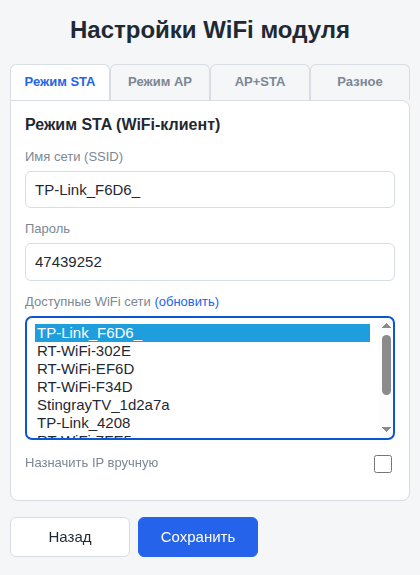
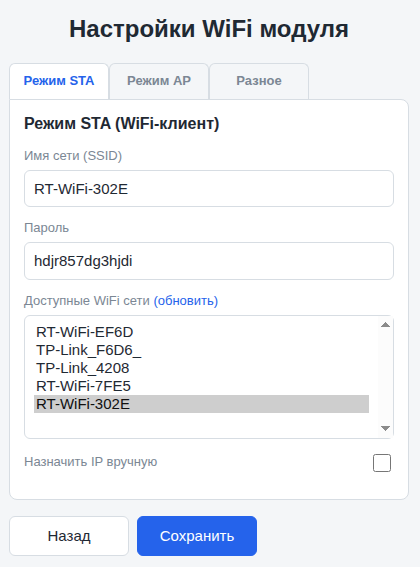
fix docs

diff --git a/docs/api.md b/docs/api.md
@@ -160,7 +160,7 @@ void setStaDns2(IPAddress &sta_dns2)
 здесь:
 - `ip`, `sta_ip` - IP-адрес модуля
 - `gateway`, `sta_gateway` - адрес шлюза
-- `mask`, `sta_mask` - маска сети
+- `mask`, `sta_mask` - маска подсети
 - `dns1`, `sta_dns1` - адрес DNS1
 - `dns2`, `sta_dns2` - адрес DNS2
 
@@ -212,7 +212,7 @@ String getApPass();
 // с сохраненными параметрами
 void setApConfig();
 
-// с заданным IP; адрес шлюза будет установлен такой же, маска сети 255.255.255.0
+// с заданным IP; адрес шлюза будет установлен такой же, маска подсети 255.255.255.0
 void setApConfig(IPAddress &ip);
 
 // с заданными параметрами
@@ -225,7 +225,7 @@ void setApMask(IPAddress &ap_mask);
 здесь:
 - `ip`, `ap_ip` - IP-адрес точки доступа
 - `gateway`, `ap_gateway` - адрес шлюза
-- `mask`, `ap_mask` - маска сети точки доступа
+- `mask`, `ap_mask` - маска подсети точки доступа
 
 <hr>
 
@@ -247,7 +247,7 @@ void setUseComboMode(bool mode_on);
 здесь:
 - `mode_on` true - включить, false- отключить
 
-***Примечание:** при ключении этой опции в Web-интерфейсе появляется дополнительная вкладка, в которой можно управлять режимом; собственно, это ее единственная задача - добавить вкладку в Web-интерфейс*
+***Примечание:** при ключении этой опции в Web-интерфейсе появляется дополнительная вкладка, в которой можно управлять режимом*
 
 <hr>
 
@@ -416,7 +416,7 @@ void checkStaConnection();
 
 ***Примечание:** метод периодически вызывается методом `tick()` автоматически переводит модуль в режим точки доступа при потере соединения и снова подключается к WiFi-сети при ее появлении*
 
-***Важно!!!** если методом `setCheckTimer()` установлен нулевой интервал проверки, то проверка соединения выполняться не будет, и, как следствие, модуль не будет переводиться в режим точки доступа при потере WiFi-соединения*
+***Важно!!!** если методом `setCheckTimer()` установлен нулевой интервал проверки, то проверка соединения выполняться не будет, и, как следствие, модуль не будет переводиться в режим точки доступа при потере WiFi-соединения; еще одно последствие нулевого интервала - если при старте модуля нужная сеть не была найдена, и модуль переключился в режим точки доступа, то он будет оставаться в этом режиме даже после появления нужной сети*
 
 <hr>
 
@@ -454,7 +454,7 @@ bool isAuthenticated();
 
 **Описание:**
 
-*Все страницы, которые регистрирует сама библиотека, защищены автоматически. Страницы, которые вы регистрируете сами через server.on(...), этой проверкой не оборачиваются, поэтому их нужно защищать явно, вызвав этот метод в самом начале обработчика.*
+*Все страницы, которые регистрирует библиотека, защищены автоматически. Страницы, которые вы регистрируете сами через server.on(...), этой проверкой не оборачиваются, поэтому их нужно защищать явно, вызвав этот метод в самом начале обработчика.*
 
 *Метод выполняет проверку и в случае неудачи САМ отправляет браузеру ответ 401 с запросом базовой авторизации, поэтому при отрицательном результате в обработчике остаётся только прервать выполнение (return).*
 ```
@@ -464,7 +464,7 @@ bool isAuthenticated();
 Пример использования
 ```
 HTTP.on("/other", HTTP_GET, []() {
-   if (!myWiFi.isAuthenticated()) return;   // 401 отправит библиотека
+   if (!wifi_config.isAuthenticated()) return;   // 401 отправит библиотека
    HTTP.send(200, "text/html", "<p align='center' style='font-size: large;'>Test page</p>");
  });
 ```
@@ -494,6 +494,8 @@ void setEepromStartIndex(uint16_t _eeprom_start_index);
 ```
 здесь:
 - `_eeprom_start_index` - индекс в `EEPROM`, с которого будет сохраняться конфигурация модуля
+
+***Примечание:** по умолчанию модуль пишет данные начиная с нулевого индекса; изменение стартового индекса может понадобиться, если в начало EEPROM пишет данные какой-либо сторонний код*
 
 ***Важно!!!** помните, что для сохранения данных конфигурации модуля необходимо 1026 байт, задавая стартовый индекс, следите, чтобы все данные поместились в EEPROM после заданного индекса*
 

diff --git a/readme.md b/readme.md
@@ -93,6 +93,7 @@ shWiFiConfig wifi_config(adm_name, adm_pass);
 
 ***ВАЖНО!!!** конструктор принимает аргументы по ссылке (`String &`), поэтому передавать нужно именованные переменные типа `String`, а не строковые литералы. Вариант `shWiFiConfig wifi_config("admin", "password");` **не скомпилируется**.*
 <hr>
+
 Если предполагается использование EEPROM для хранения настроек, перед использованием `EEPROM` ее нужно инициализировать с помощью метода:
 ```
 void eepromInit(uint16_t _add_eeprom_size = 0);
@@ -101,6 +102,7 @@ void eepromInit(uint16_t _add_eeprom_size = 0);
 
 Об особенностях использования `EEPROM` библиотекой см. [здесь](docs/api.md#eeprom).
 <hr>
+
 Затем нужно инициировать конфиг:
 ```
 wifi_config.begin(&HTTP, &FILESYSTEM);
@@ -122,6 +124,7 @@ wifi_config.begin(&HTTP);
 
 ***Примечание:** если файл с настройками (запись в EEPROM) не будет найден (например, при первом запуске модуля), конфиг будет использовать настройки по умолчанию, одновременно будет создан файл (запись в EEPROM) с настройками по умолчанию*
 <hr>
+
 А затем нужно установить WiFi-соединение:
 ```
 wifi_config.startWiFi();
@@ -130,6 +133,7 @@ wifi_config.startWiFi();
 
 Имя точки доступа по умолчанию - `WIFI_AP_`, пароль точки доступа по умолчанию - `12345678`.
 <hr>
+
 Для отслеживания состояния подключения в `loop()` нужно поместить вызов метода `tick()`:
 ```
 wifi_config.tick();
